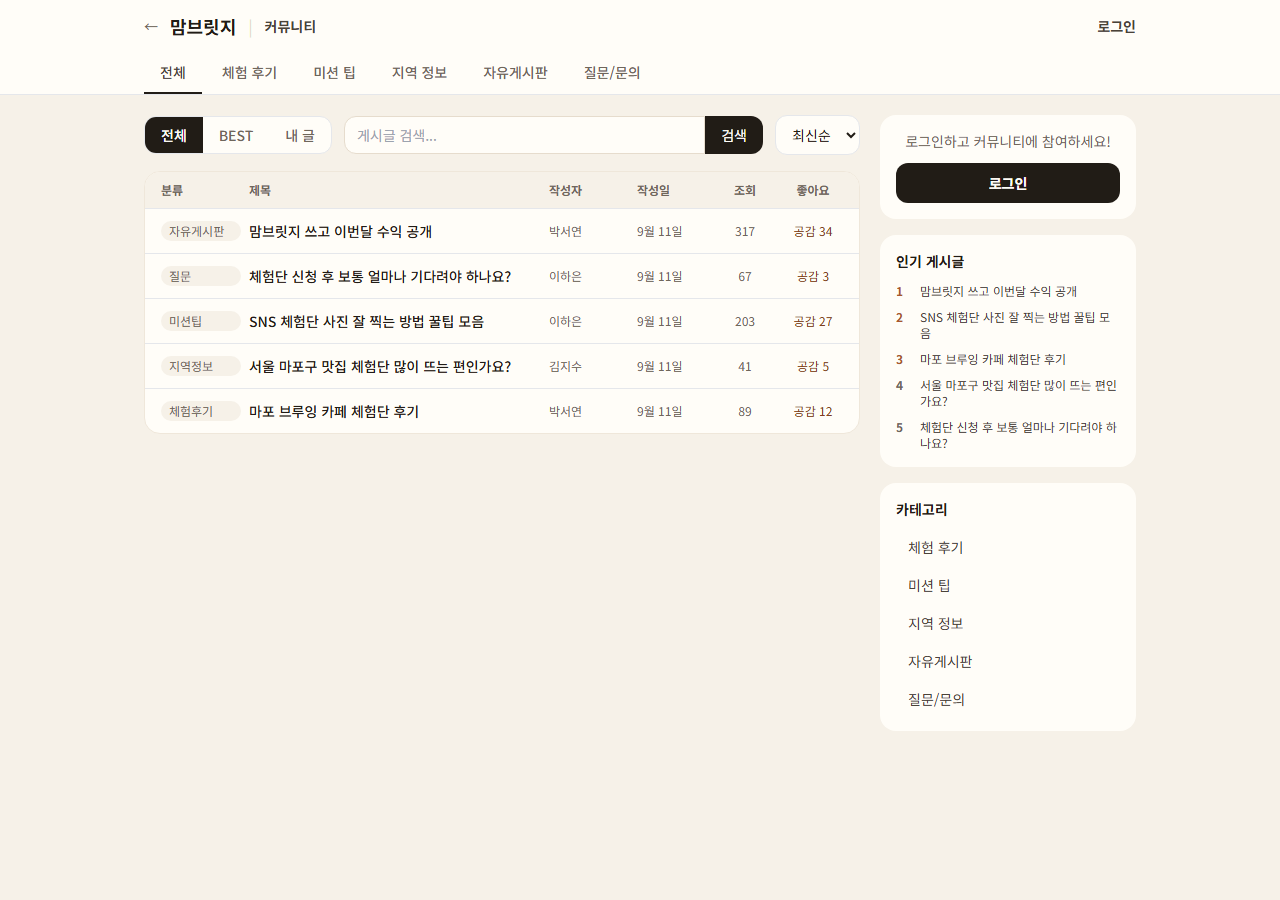
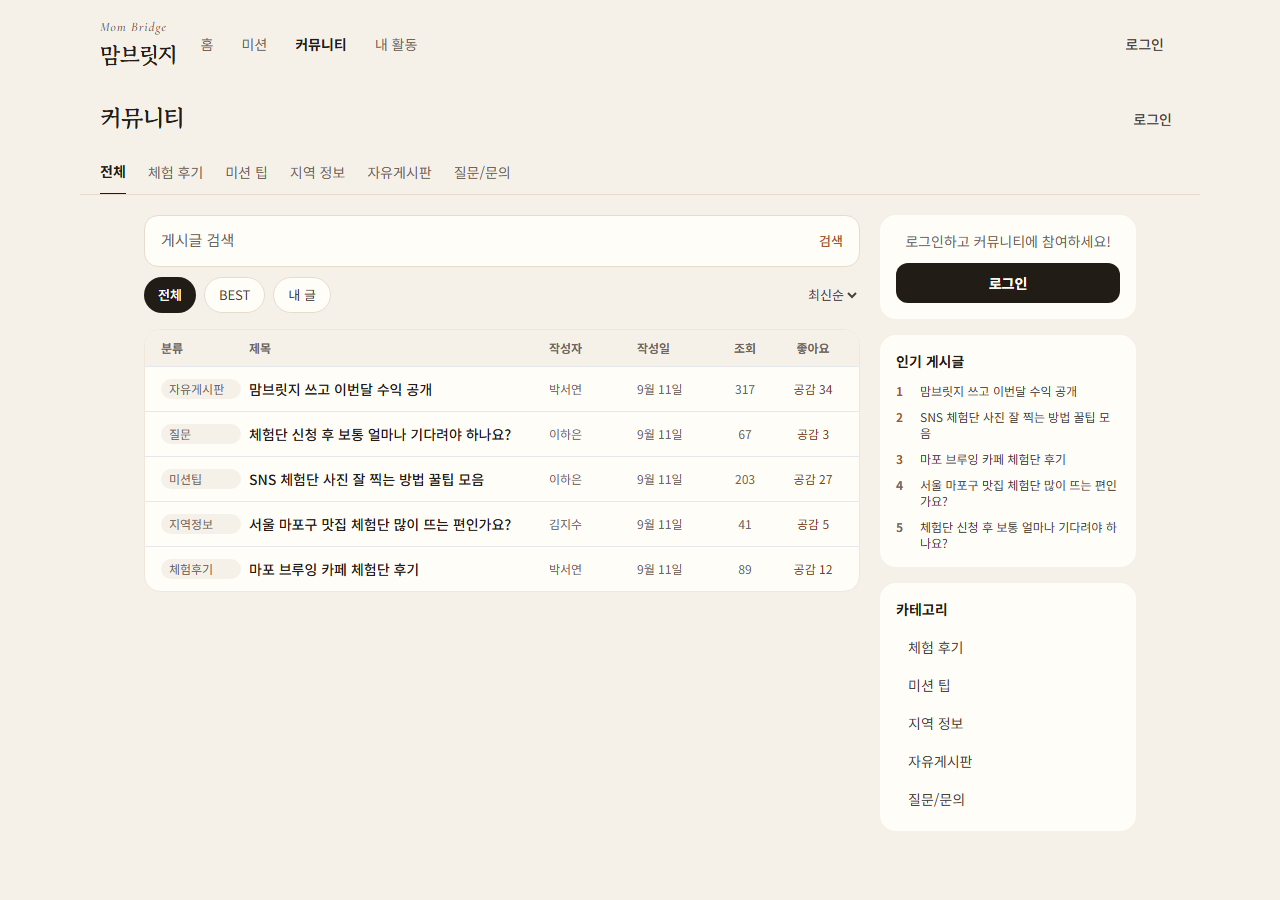
fix(community, participant): make the search usable and say what the payout card means
Follow-ups on the participant PR, found by looking at it at 390px.

The community controls crammed the tab group, the search field and the sort
select onto one wrapping row, which squeezed the input until nothing was
visible. Search now takes a row of its own at full width, with the tabs and
the sort beneath it. The category strip kept its scrollbar visible; a
no-scrollbar utility hides it there and on the other horizontal strips — the
shared CategoryTabs, the region chips and the home rail — so they scroll
without the bar.

The community header was still 맘브릿지 | 커뮤니티 with a back arrow while
every other screen had moved to SiteHeader. It now uses SiteHeader with
커뮤니티 as a serif title, and 글 작성 becomes the clay action it is.

The summary card said "승인된 미션 0건" while the list below showed approved
cards, which reads as a contradiction. It is not: the amount comes from
Payout rows, and the operator only creates those when settling, so an
approved submission has no row yet. The payout date itself was right —
약관 제8조 pays the month's approvals on the 10th of the next month. The card
now distinguishes the two states: with payouts pending it says 정산 대기 n건,
and with approvals not yet settled it says those n will show an amount once
settlement is drawn up.

diff --git a/frontend/src/app/community/page.tsx b/frontend/src/app/community/page.tsx
@@ -2,7 +2,7 @@
 import { useEffect, useState, useCallback } from 'react';
 import { useRouter } from 'next/navigation';
 import Link from 'next/link';
-import { BottomTabBar, BottomTabBarSpacer } from '@/components/ui';
+import { BottomTabBar, BottomTabBarSpacer, SiteHeader } from '@/components/ui';
 import api from '@/lib/api';
 import { useAuthStore } from '@/store/auth';
 
@@ -110,38 +110,34 @@ export default function CommunityPage() {
 
   return (
     <div className="min-h-screen bg-cream">
-      {/* 헤더 */}
-      <header className="bg-paper border-b sticky top-0 z-20">
-        <div className="max-w-5xl mx-auto px-4 py-3 flex items-center justify-between">
-          <div className="flex items-center gap-3">
-            <Link href={backHref} className="text-muted hover:text-ink-2 text-sm">←</Link>
-            <h1 className="text-lg font-bold text-ink">맘브릿지</h1>
-            <span className="text-line">|</span>
-            <span className="text-sm font-semibold text-ink-2">커뮤니티</span>
-          </div>
-          <div className="flex items-center gap-3">
-            {user && (
-              <button onClick={() => setShowWrite(true)}
-                className="px-4 py-1.5 bg-ink text-paper rounded-control text-sm font-semibold hover:bg-ink">
-                글 작성
-              </button>
-            )}
-            {!user && (
-              <Link href="/login" className="text-sm text-ink-2 font-semibold">로그인</Link>
-            )}
-          </div>
-        </div>
+      <SiteHeader showSearch={false} />
 
-        {/* 카테고리 탭 */}
-        <div className="max-w-5xl mx-auto px-4 flex gap-1 pb-0 overflow-x-auto">
+      <div className="mx-auto max-w-shell">
+        <header className="flex items-center justify-between gap-2 px-5 pb-2 pt-3.5">
+          <h1 className="font-serif text-title font-bold">커뮤니티</h1>
+          {user ? (
+            <button
+              onClick={() => setShowWrite(true)}
+              className="flex h-11 shrink-0 items-center rounded-control bg-clay px-4 text-sm font-bold text-paper"
+            >
+              글 작성
+            </button>
+          ) : (
+            <Link href="/login" className="flex h-11 items-center px-2 text-sm font-medium text-ink-2">로그인</Link>
+          )}
+        </header>
+
+        {/* 카테고리 탭 — 스크롤은 되되 스크롤바는 숨긴다 */}
+        <nav aria-label="게시판 분류" className="no-scrollbar flex gap-[22px] overflow-x-auto border-b border-line px-5">
           {CATEGORIES.map(c => (
             <button key={c.key} onClick={() => { setCategory(c.key); loadPosts(1, c.key, sort, keyword); }}
-              className={`shrink-0 px-4 py-2.5 text-sm font-medium border-b-2 transition-colors ${category === c.key ? 'border-ink text-ink-2' : 'border-transparent text-muted hover:text-ink-2'}`}>
+              aria-current={category === c.key ? 'page' : undefined}
+              className={`-mb-px shrink-0 whitespace-nowrap py-3 text-sm ${category === c.key ? 'border-b-2 border-ink font-bold text-ink' : 'text-muted'}`}>
               {c.label}
             </button>
           ))}
-        </div>
-      </header>
+        </nav>
+      </div>
 
       <div className="max-w-5xl mx-auto px-4 py-5 flex gap-5">
 
@@ -149,31 +145,37 @@ export default function CommunityPage() {
         <div className="flex-1 min-w-0">
 
           {/* 탭 + 검색 + 정렬 */}
-          <div className="flex items-center gap-3 mb-4 flex-wrap">
-            <div className="flex bg-paper border rounded-control overflow-hidden">
+          {/* 검색은 한 줄 전체 폭으로, 탭과 정렬은 그 아래 줄로 */}
+          <form onSubmit={handleSearch} className="mb-2.5 flex h-[52px] items-center gap-2.5 rounded-control-lg border border-line bg-paper px-4">
+            <label htmlFor="community-q" className="sr-only">게시글 검색</label>
+            <input
+              id="community-q" value={searchInput} onChange={e => setSearchInput(e.target.value)}
+              placeholder="게시글 검색"
+              className="min-w-0 flex-1 bg-transparent text-[15px] text-ink outline-none placeholder:text-muted"
+            />
+            <button type="submit" className="shrink-0 whitespace-nowrap text-[13px] font-medium text-clay">검색</button>
+          </form>
+
+          <div className="mb-4 flex items-center justify-between gap-3">
+            <div className="no-scrollbar flex gap-2 overflow-x-auto">
               {(['LIST', 'BEST', 'MY'] as const).map(t => (
                 <button key={t} onClick={() => setTab(t)}
-                  className={`px-4 py-2 text-sm font-medium transition-colors ${tab === t ? 'bg-ink text-paper' : 'text-muted hover:bg-cream'}`}>
+                  aria-pressed={tab === t}
+                  className={`flex h-9 shrink-0 items-center rounded-full px-3.5 text-[13px] ${tab === t ? 'bg-ink font-medium text-paper' : 'border border-line bg-paper text-ink-2'}`}>
                   {t === 'LIST' ? '전체' : t === 'BEST' ? 'BEST' : '내 글'}
                 </button>
               ))}
             </div>
 
-            <form onSubmit={handleSearch} className="flex flex-1 min-w-0">
-              <input
-                value={searchInput} onChange={e => setSearchInput(e.target.value)}
-                placeholder="게시글 검색..."
-                className="min-w-0 flex-1 rounded-l-control border border-line bg-paper px-3 py-2 text-sm outline-none"
-              />
-              <button type="submit" className="shrink-0 whitespace-nowrap rounded-r-control bg-ink px-4 py-2 text-sm text-paper">검색</button>
-            </form>
-
-            <select value={sort} onChange={e => { setSort(e.target.value as SortKey); loadPosts(1, category, e.target.value as SortKey, keyword); }}
-              className="border rounded-control px-3 py-2 text-sm focus:outline-none bg-paper">
-              <option value="NEWEST">최신순</option>
-              <option value="POPULAR">인기순</option>
-              <option value="VIEWS">조회순</option>
-            </select>
+            <label className="flex shrink-0 items-center text-[13px] text-ink-2">
+              <span className="sr-only">정렬</span>
+              <select value={sort} onChange={e => { setSort(e.target.value as SortKey); loadPosts(1, category, e.target.value as SortKey, keyword); }}
+                className="h-9 bg-transparent text-[13px] text-ink-2 outline-none">
+                <option value="NEWEST">최신순</option>
+                <option value="POPULAR">인기순</option>
+                <option value="VIEWS">조회순</option>
+              </select>
+            </label>
           </div>
 
           {/* BEST 탭 */}

diff --git a/frontend/src/app/participant/page.tsx b/frontend/src/app/participant/page.tsx
@@ -181,8 +181,15 @@ export default function ParticipantPage() {
   const subByMission = new Map(submissions.map(s => [s.missionId, s]));
   const payoutByMission = new Map(payouts.map(p => [p.submission?.missionId, p]));
 
+  // 지급 예정 금액은 운영자가 만든 Payout 행에서만 나온다.
+  // 제출물이 '승인'돼도 정산이 잡히기 전에는 행이 없어, 그 경우를 따로 안내한다 (약관 제8조:
+  // 매월 말일까지 승인된 건 → 다음 달 10일 지급)
   const pendingPay = payouts.filter(p => p.status !== 'COMPLETED');
   const nextAmount = pendingPay.reduce((sum, p) => sum + Number(p.netAmount ?? 0), 0);
+  const payoutMissionIds = new Set(payouts.map(p => p.submission?.missionId));
+  const approvedAwaitingPayout = submissions.filter(
+    s => s.status === 'APPROVED' && !payoutMissionIds.has(s.missionId),
+  ).length;
   const totalEarned = payouts.filter(p => p.status === 'COMPLETED').reduce((sum, p) => sum + Number(p.netAmount ?? 0), 0);
   const applyingCount = applications.filter(a => a.status === 'PENDING').length;
   const activeApps = applications.filter(a => a.status === 'APPROVED' && payoutByMission.get(a.missionId)?.status !== 'COMPLETED');
@@ -261,9 +268,17 @@ export default function ParticipantPage() {
         {/* 이번 달 요약 */}
         <section className="mx-5 mt-3 rounded-box bg-ink px-5 py-[22px] text-paper">
           <span className="font-accent text-sm italic text-[#D9A27F]">This month</span>
-          <p className="mt-1 text-[13px] text-[#CFC4B4]">{nextPayoutLabel()}에 받을 보상</p>
+          <p className="mt-1 text-[13px] text-[#CFC4B4]">
+            {pendingPay.length > 0 ? `${nextPayoutLabel()}에 받을 보상` : '다음 정산일 ' + nextPayoutLabel()}
+          </p>
           <p className="mt-1 font-serif text-hero font-bold">{won(nextAmount)}</p>
-          <p className="mt-1 text-xs text-[#CFC4B4]">수수료·세금 공제 후 · 승인된 미션 {pendingPay.length}건</p>
+          <p className="mt-1 text-xs text-[#CFC4B4]">
+            {pendingPay.length > 0
+              ? `수수료·세금 공제 후 · 정산 대기 ${pendingPay.length}건`
+              : approvedAwaitingPayout > 0
+                ? `승인된 ${approvedAwaitingPayout}건은 정산이 잡히면 금액이 표시돼요`
+                : '아직 정산 대기 중인 건이 없어요'}
+          </p>
           <div className="mt-[18px] grid grid-cols-3 border-t border-[#3A332B] pt-3.5">
             {[
               { label: '지원 중', value: String(applyingCount) },

diff --git a/frontend/src/app/page.tsx b/frontend/src/app/page.tsx
@@ -82,7 +82,7 @@ export default function Home() {
           </form>
         </section>
 
-        <nav aria-label="미션 유형" className="flex gap-[22px] overflow-x-auto border-b border-line px-5">
+        <nav aria-label="미션 유형" className="no-scrollbar flex gap-[22px] overflow-x-auto border-b border-line px-5">
           {TYPE_TABS.map((t, i) => (
             <Link
               key={t.label}
@@ -107,7 +107,7 @@ export default function Home() {
             <div className="px-5 pb-3.5">
               <SectionHeader eyebrow="After drop-off" title="마감이 가까운 미션" moreHref="/missions" />
             </div>
-            <div className="flex gap-3 overflow-x-auto px-5 pb-1">
+            <div className="no-scrollbar flex gap-3 overflow-x-auto px-5 pb-1">
               {closing.map(m => <MissionCard key={m.id} mission={toCardData(m)} variant="rail" />)}
             </div>
           </section>

diff --git a/frontend/src/components/missions/MissionBrowser.tsx b/frontend/src/components/missions/MissionBrowser.tsx
@@ -111,7 +111,7 @@ export default function MissionBrowser({
   return (
     <div>
       {/* 칩 줄 — 엄마 시간 칩(평일 낮·아이 동반·재택)은 데이터가 없어 숨긴다 */}
-      <div className="flex gap-2 overflow-x-auto px-5 pb-1">
+      <div className="no-scrollbar flex gap-2 overflow-x-auto px-5 pb-1">
         {/* 지역 칩. Chip은 button이라 select를 품을 수 없어 같은 모양의 label로 만든다 */}
         <label
           className={`flex h-9 shrink-0 items-center gap-1.5 rounded-full px-3.5 text-[13px] ${

diff --git a/frontend/src/components/ui/primitives.tsx b/frontend/src/components/ui/primitives.tsx
@@ -75,7 +75,7 @@ export function CategoryTabs({
   ariaLabel?: string;
 }) {
   return (
-    <nav aria-label={ariaLabel} className="flex gap-[22px] overflow-x-auto border-b border-line px-5">
+    <nav aria-label={ariaLabel} className="no-scrollbar flex gap-[22px] overflow-x-auto border-b border-line px-5">
       {tabs.map(t => {
         const on = t.value === value;
         return (

diff --git a/frontend/src/app/globals.css b/frontend/src/app/globals.css
@@ -6,3 +6,12 @@
   * { @apply box-border; }
   html { @apply scroll-smooth; }
 }
+
+@layer utilities {
+  /* 가로 스크롤은 되되 스크롤바는 보이지 않게 (탭·칩 줄) */
+  .no-scrollbar {
+    -ms-overflow-style: none;
+    scrollbar-width: none;
+  }
+  .no-scrollbar::-webkit-scrollbar { display: none; }
+}
